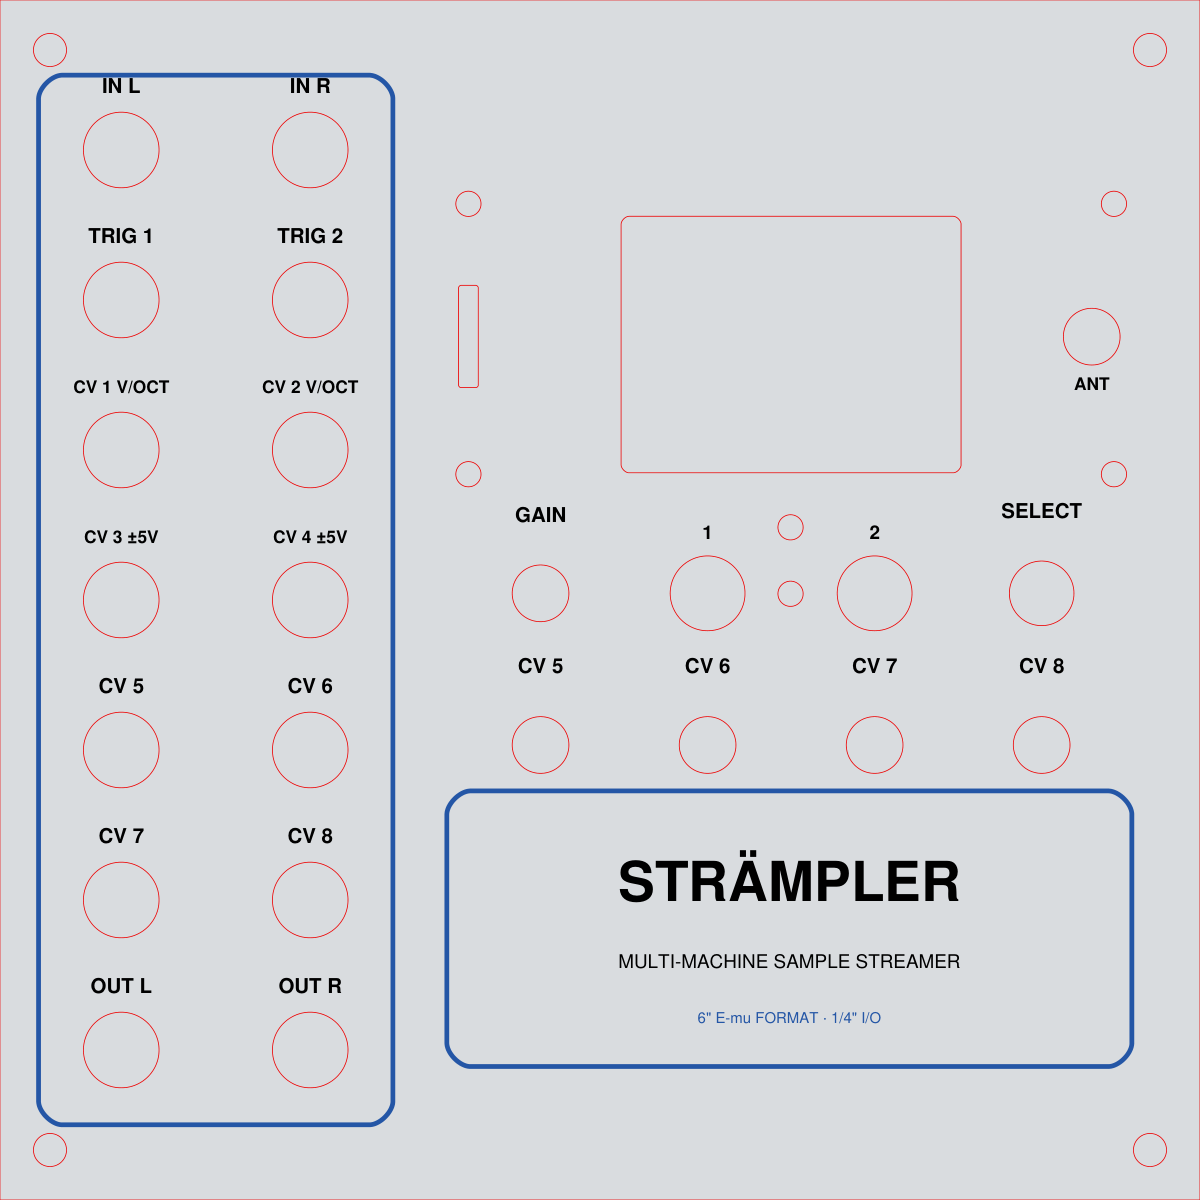
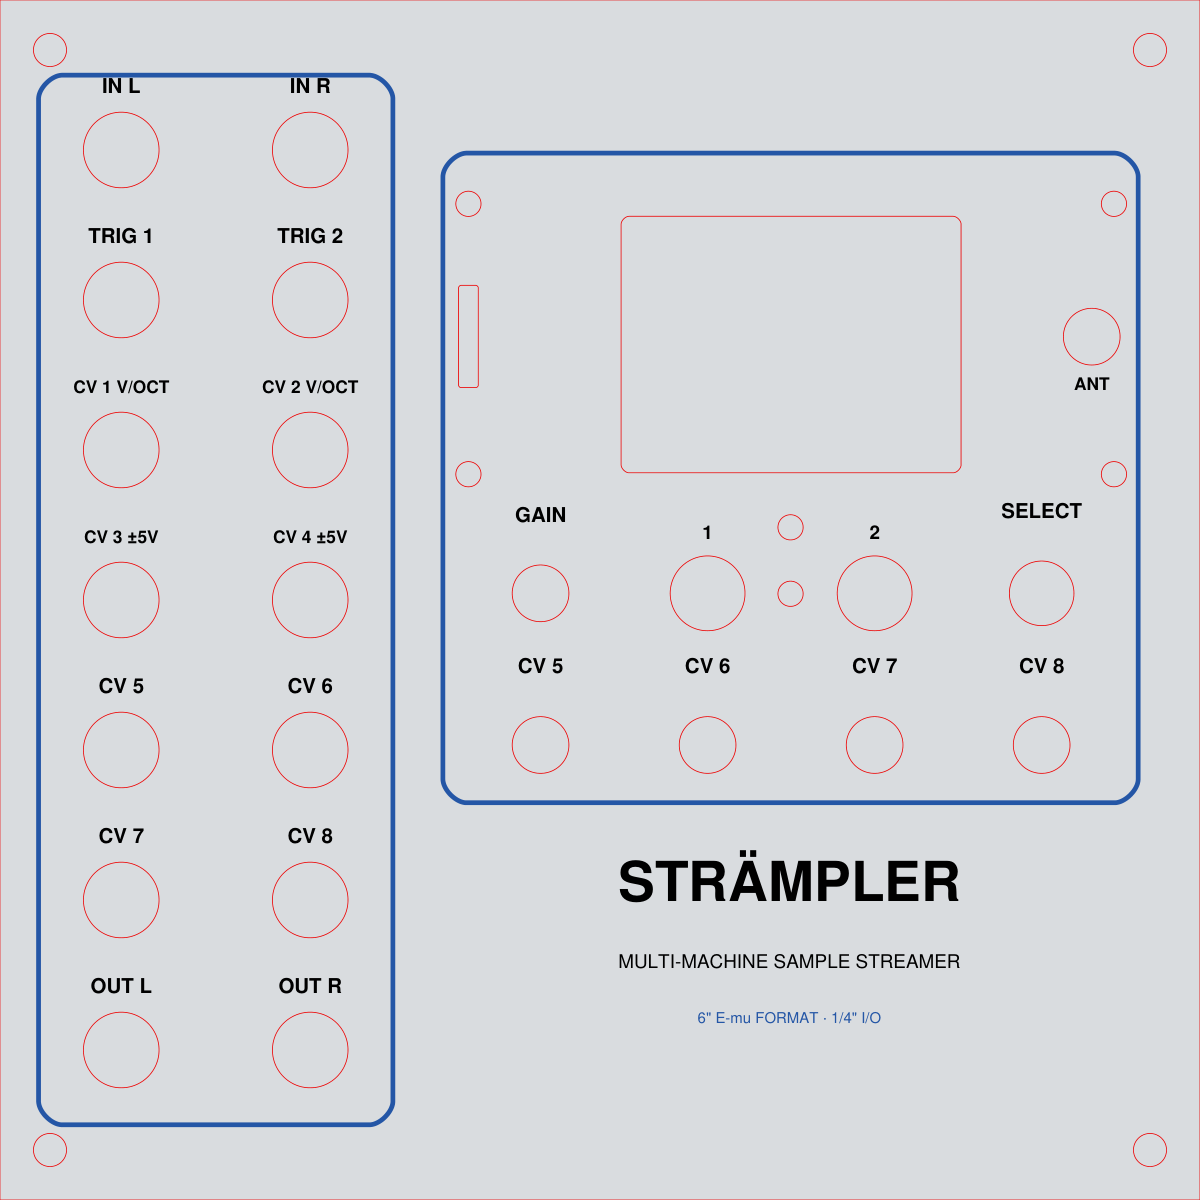
panel-emu: blue box around the interface block instead of the wordmark
Claude-Session: https://claude.ai/code/session_01KnGMUq9B8Y9jJAKBbBJVhF

Changed region(s): [[0.37, 0.1233, 0.9558, 0.8942], [0.3392, 0.1542, 0.37, 0.6475]]

diff --git a/panel-emu/gen_emu_panel.py b/panel-emu/gen_emu_panel.py
@@ -121,9 +121,9 @@ for lab, ref, xs, y in jack_positions():
     circle(xs, y, JACK_HOLE)
     text(xs, y + JACK_HOLE/2 + 2.4, lab, 2.6 if len(lab) <= 6 else 2.2)
 
-# E-mu style dress: rounded blue boxes (jack field, wordmark block)
+# E-mu style dress: rounded blue boxes (jack field, interface block); wordmark plain
 strip_x0, strip_x1 = bx + 2, bx + 89
-art_box(strip_x0, by + 5, strip_x1, by + 40, r=3.0)
+art_box(bx + 1.5, by + 38.5, bx + 89.8, by + 121.0, r=3.0)   # display, SD, ANT, pots, buttons, LED
 text((strip_x0 + strip_x1)/2, by + 26, "STRÄMPLER", 7.0)
 text((strip_x0 + strip_x1)/2, by + 17.5, "MULTI-MACHINE SAMPLE STREAMER", 2.4, weight="normal")
 text((strip_x0 + strip_x1)/2, by + 10.5, "6\" E-mu FORMAT · 1/4\" I/O", 1.9, weight="normal", color=BLUE)
